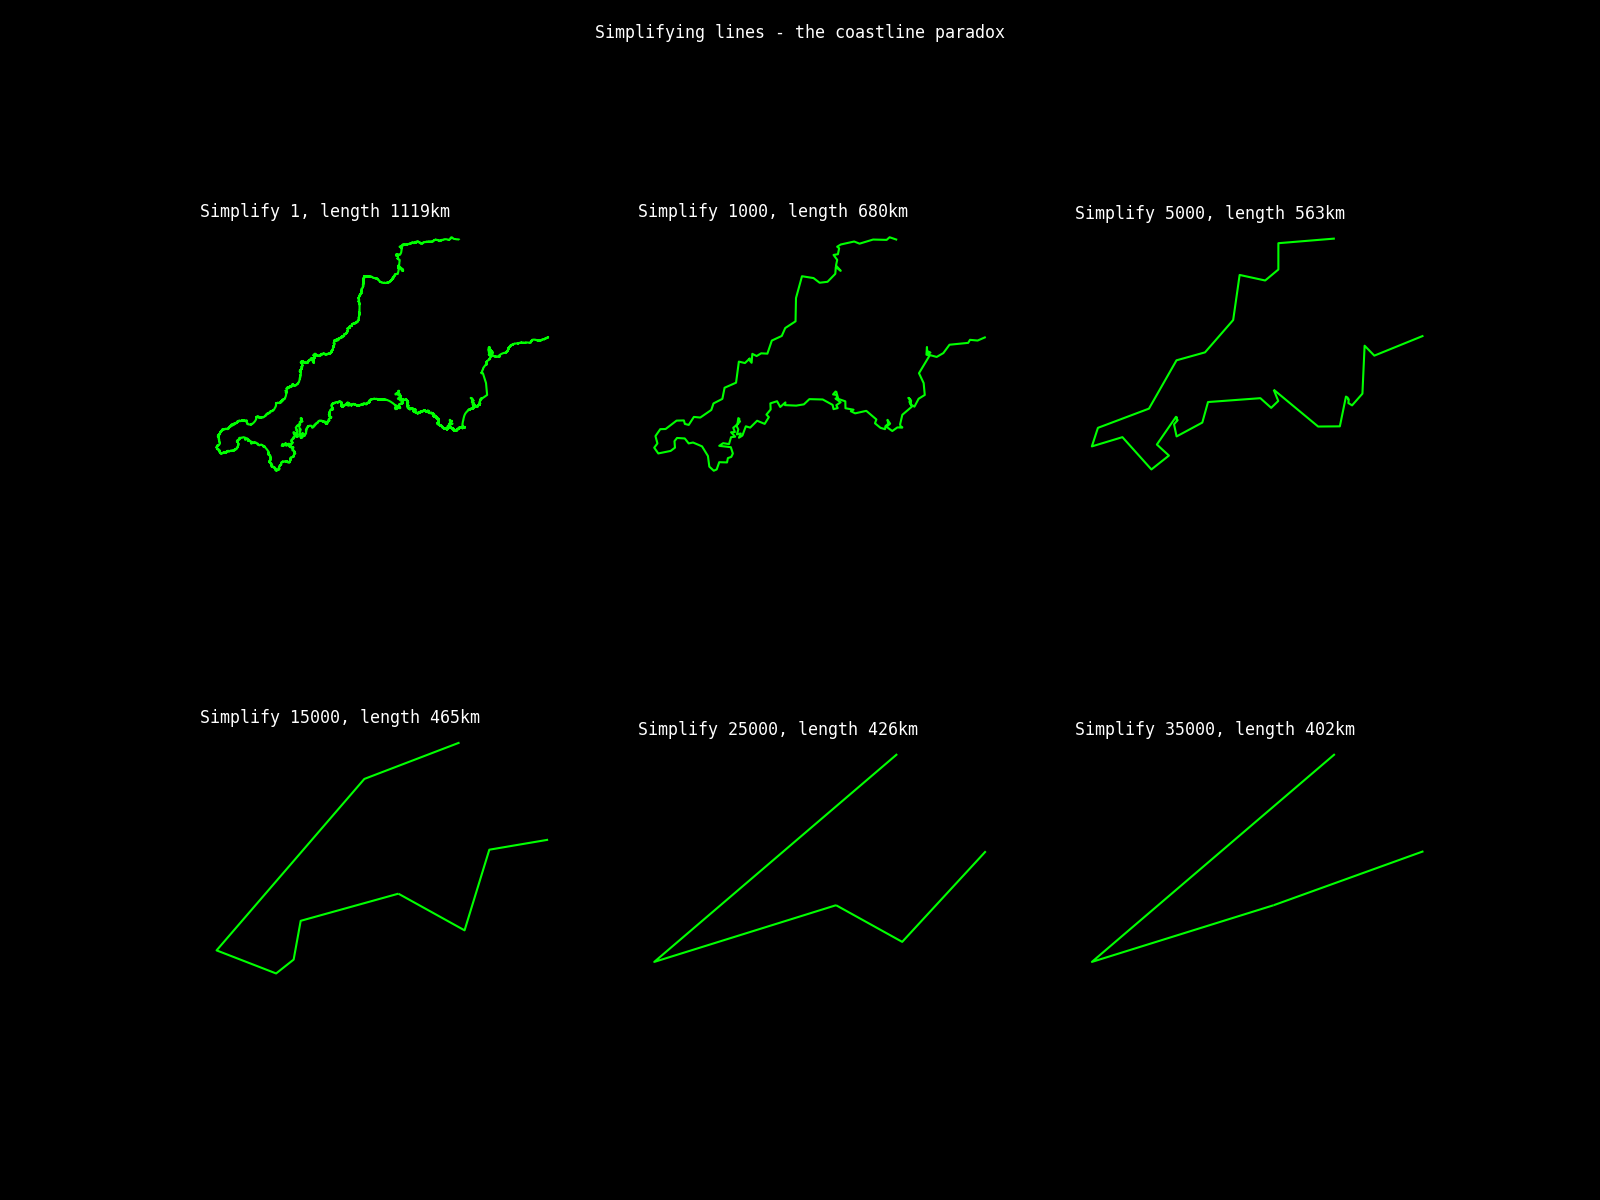
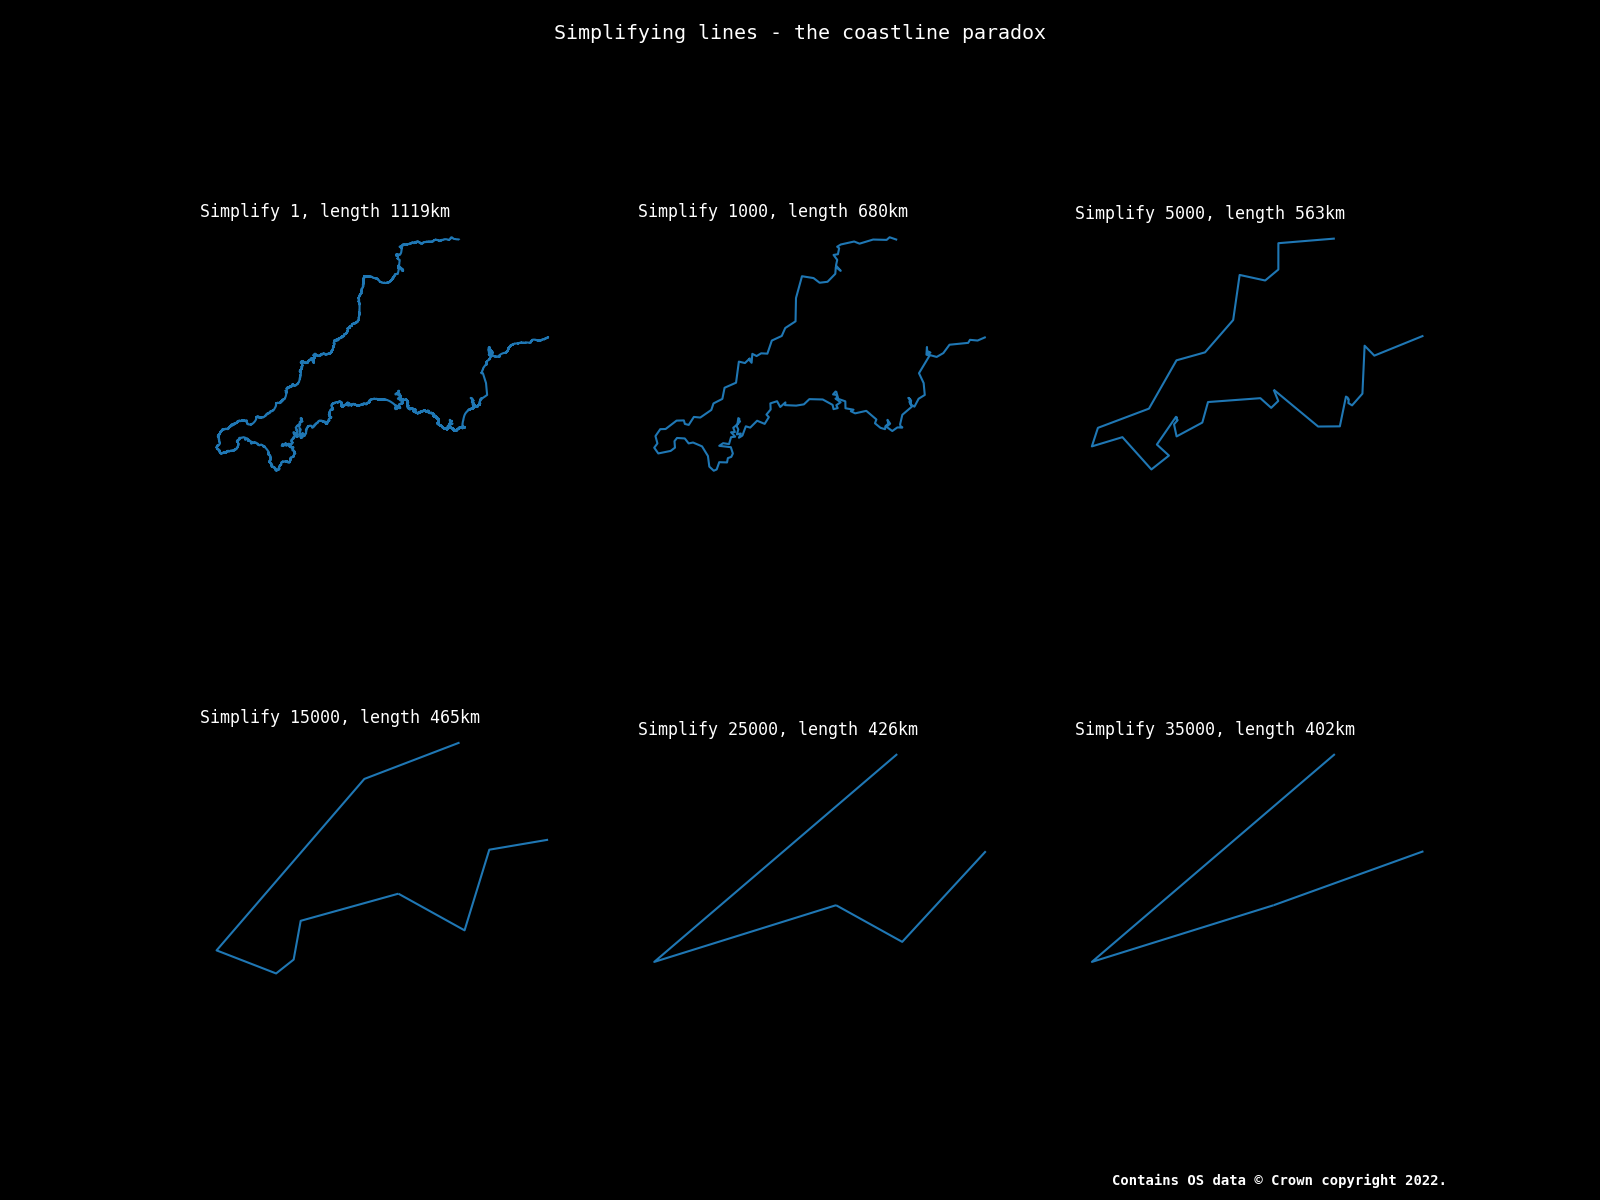
day02 commit

diff --git a/day02/main.py b/day02/main.py
@@ -1,5 +1,6 @@
 import geopandas as gpd
 import matplotlib.pyplot as plt
+import matplotlib.transforms as mtrans
 
 plt.rcParams.update(
     {
@@ -20,6 +21,8 @@ rows = 2
 s_vals = [1, 1000, 5000, 15000, 25000, 35000]
 f, axes = plt.subplots(figsize=(16, 12), ncols=cols, nrows=rows)
 
+trans = mtrans.blended_transform_factory(f.transFigure,
+                                         mtrans.IdentityTransform())
 
 for i, s in zip(range(cols * rows), s_vals):
     # s_val = 10**i
@@ -29,8 +32,11 @@ for i, s in zip(range(cols * rows), s_vals):
     ax = axes[i // cols, j]
     ax.set_title(label=f"Simplify {s}, length {len}km", loc="left")
     ax.axis("off")
-    s_gdf.plot(ax=ax, color='lime')
+    s_gdf.plot(ax=ax)
 
-f.suptitle("Simplifying lines - the coastline paradox")
+f.suptitle(t="Simplifying lines - the coastline paradox", fontsize='x-large')
+txt = f.text(.80, 15, "Contains OS data © Crown copyright 2022.", ha='center')
+txt.set_transform(trans)
+
 plt.savefig('output.png')
 plt.show()
